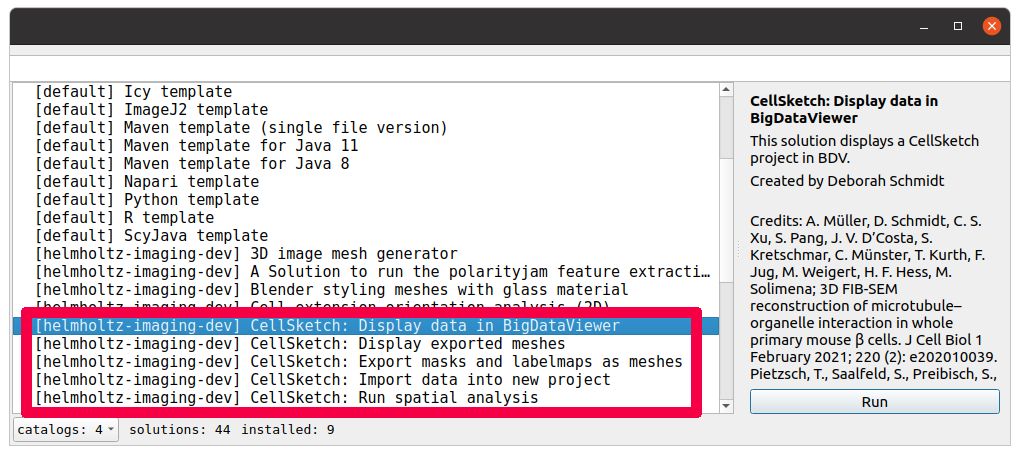
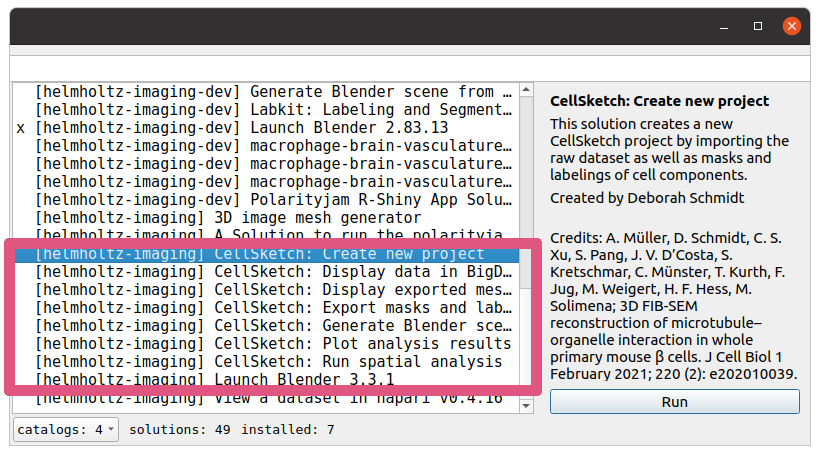
README: fix catalog URL

diff --git a/README.md b/README.md
@@ -21,7 +21,7 @@ Via commandline call
 album add-catalog https://gitlab.com/album-app/catalogs/helmholtz-imaging
 ```
 
-Via GUI first launch Album. The installer of Album should have created a launcher for you, either on your desktop or in your list of applications. In the interface, click on `catalogs` in the bottom left corner, then click `Add catalog`. Enter the following URL: `https://gitlab.com/album-app/catalogs/helmholtz-imaging-dev` and confirm.
+Via GUI first launch Album. The installer of Album should have created a launcher for you, either on your desktop or in your list of applications. In the interface, click on `catalogs` in the bottom left corner, then click `Add catalog`. Enter the following URL: `https://gitlab.com/album-app/catalogs/helmholtz-imaging` and confirm.
 
 ### Install CellSketch solutions
 
